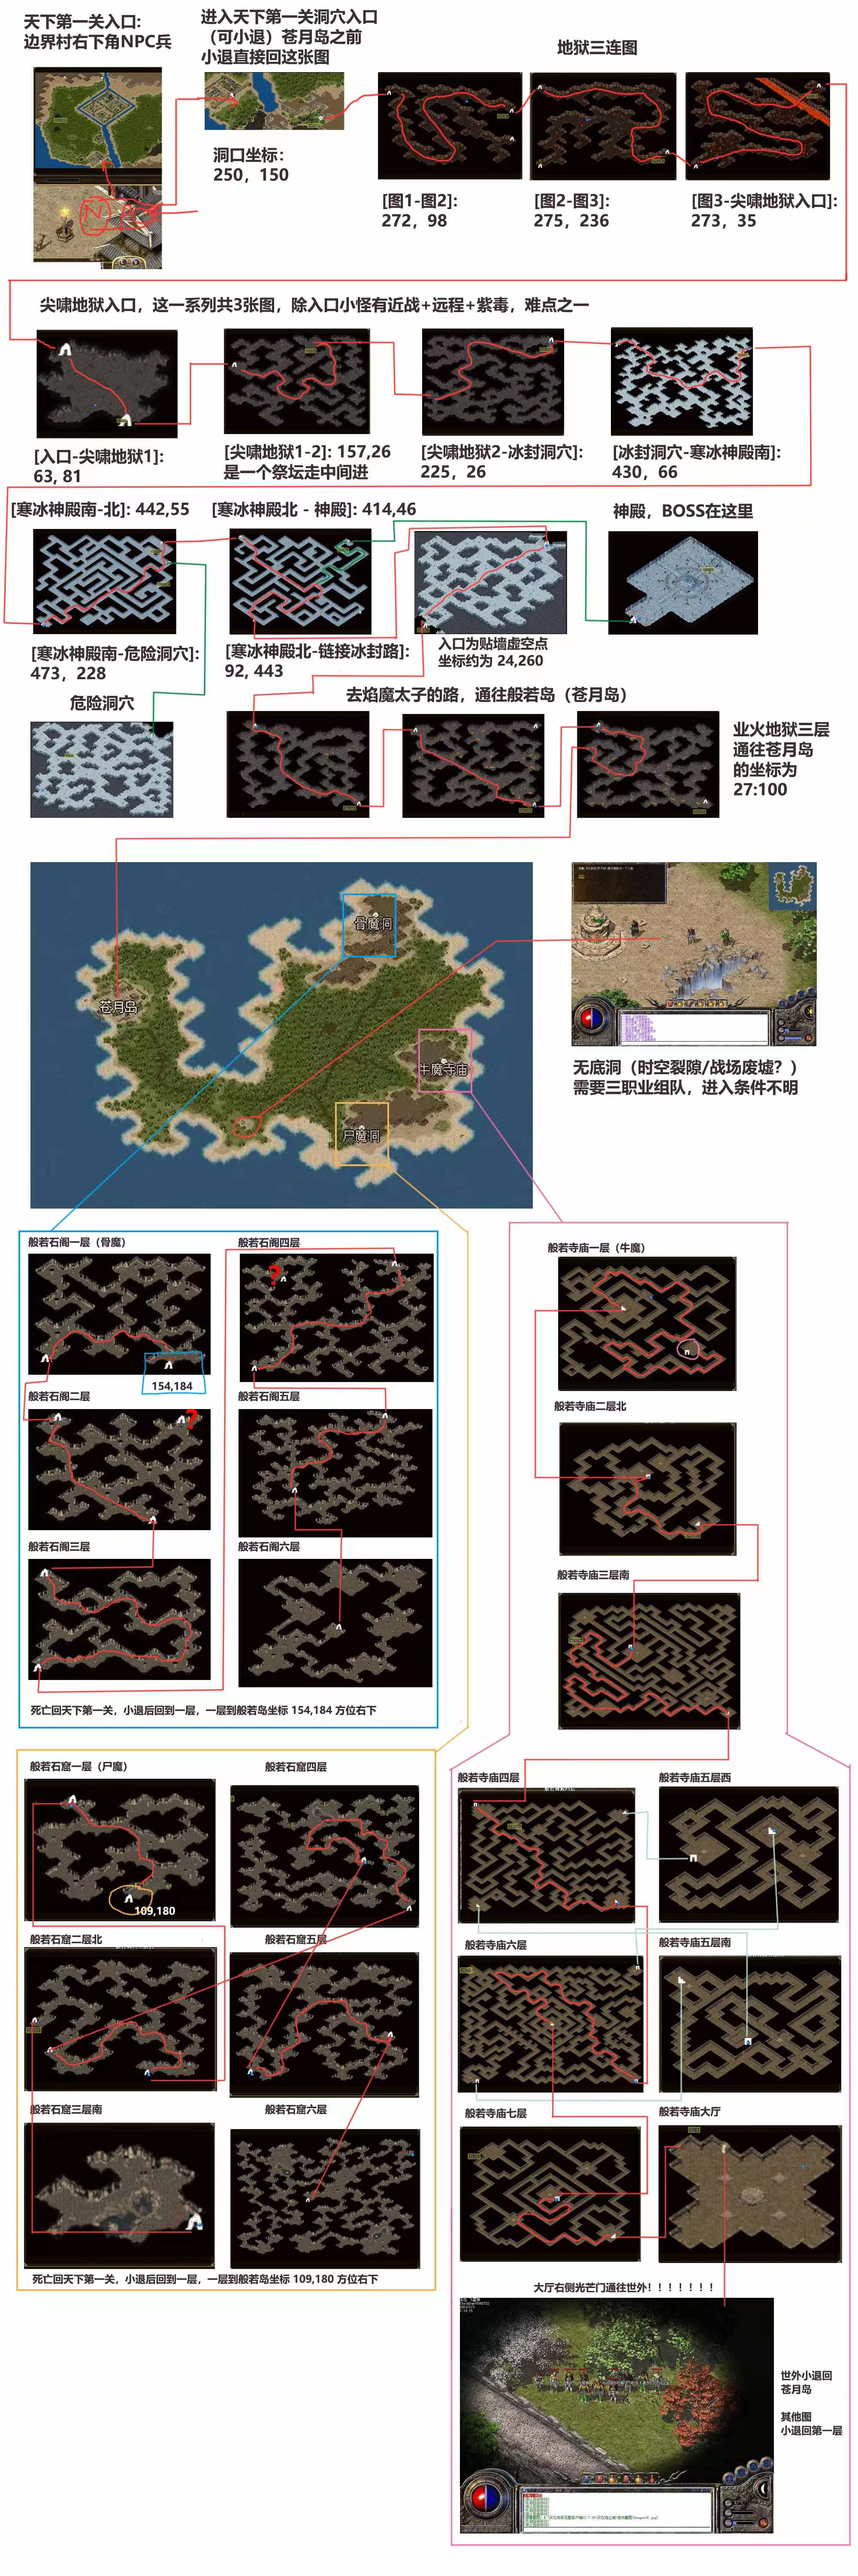
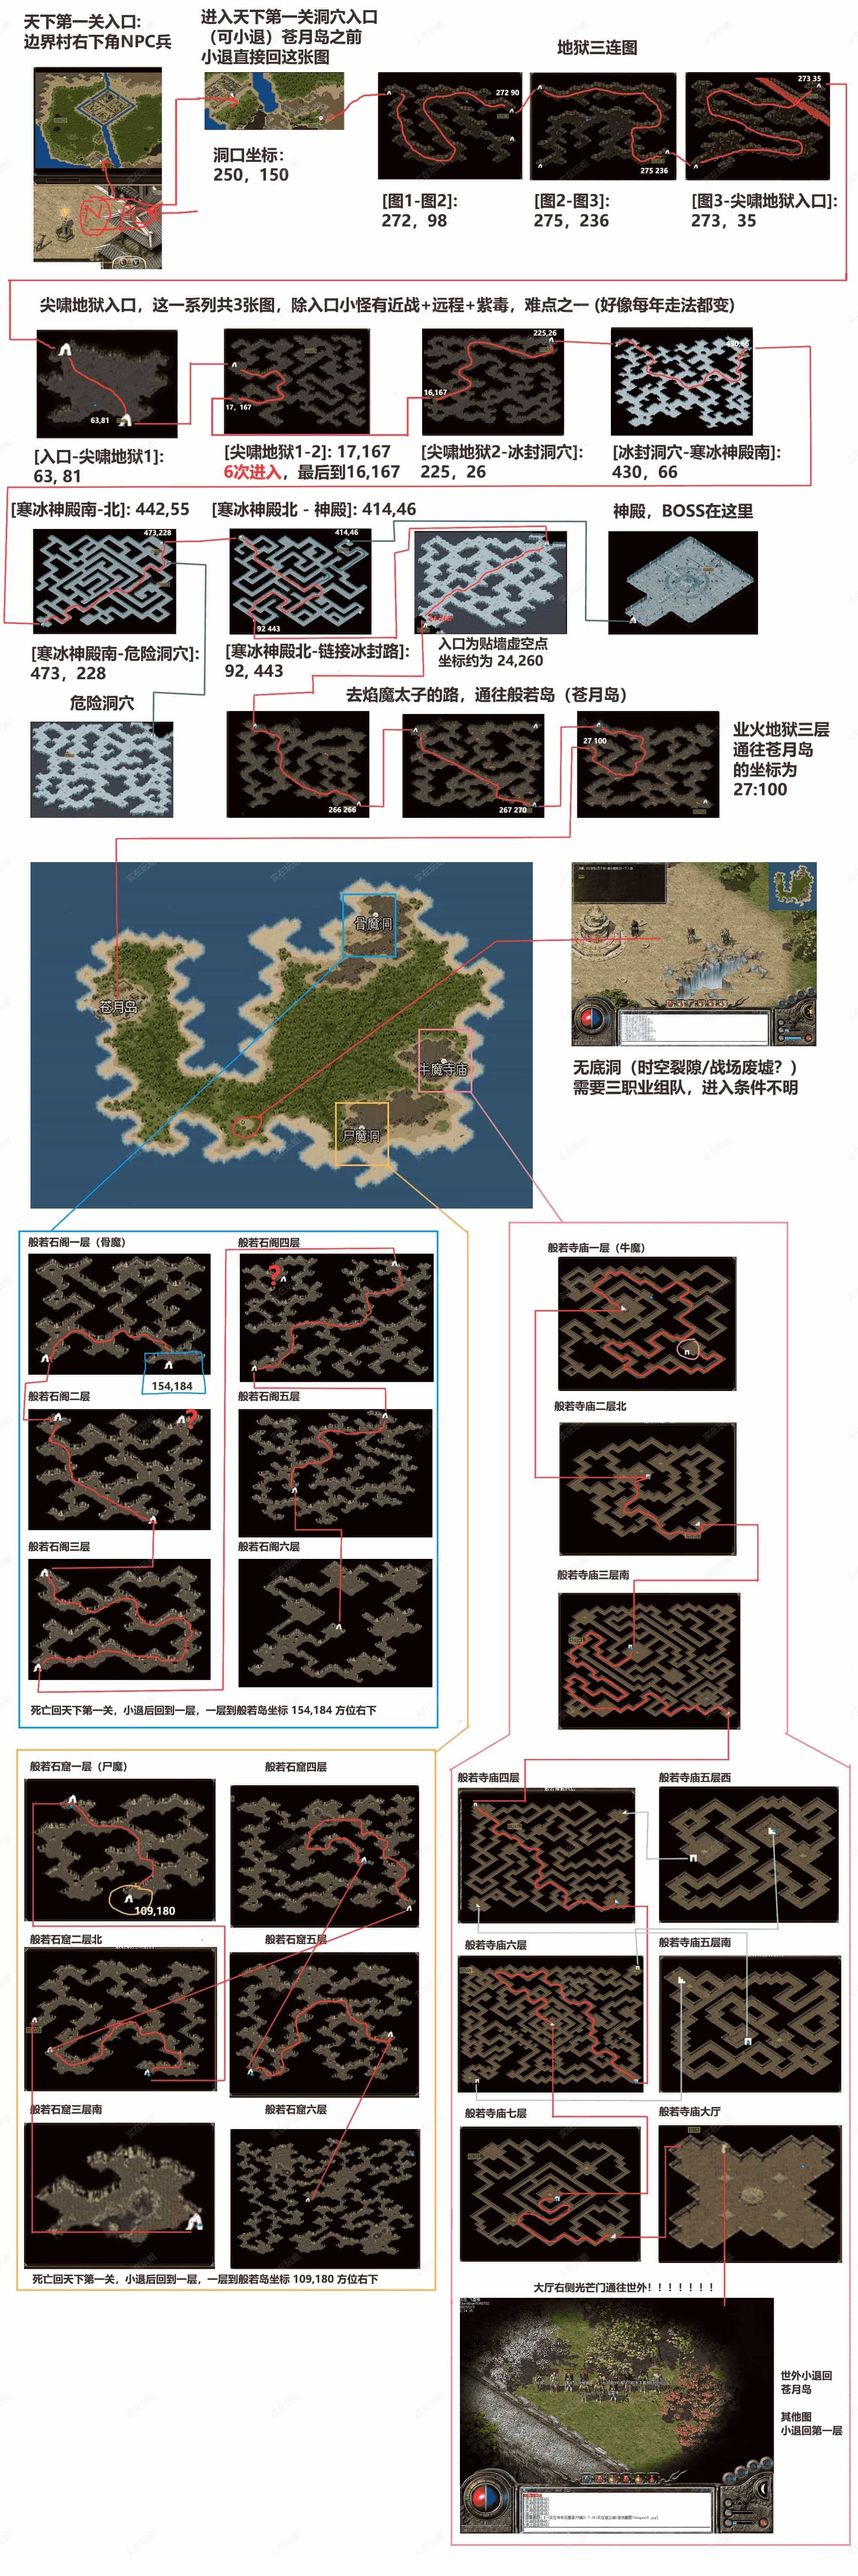
更新天下第一关图片 更新qa信息

diff --git a/QA.html b/QA.html
@@ -553,7 +553,7 @@
           <h1>一、获取不到服务器列表</h1>
 <h2>可以开个代理，或者使用麻辣小鱼的启动器</h2>
 <h1>二、打开游戏卡黑屏</h1>
-<h2>检查自己是不是win11 24H2版本系统，如果只能虚拟机进行游戏</h2>
+<h2>检查自己是不是win11 24H2以上版本系统，如果只能虚拟机进行游戏</h2>
 <p><a href="https://www.123865.com/s/UoC0Vv-QpQl3">虚拟机VMware17免激活版 点击转存后下载</a></p>
 <p><a href="https://pan.quark.cn/s/fa93271ee050">win10镜像 点击转存后下载</a></p>
 <p><a href="https://pan.quark.cn/s/3adf5ee80c22">win7镜像 点击转存后下载</a></p>
